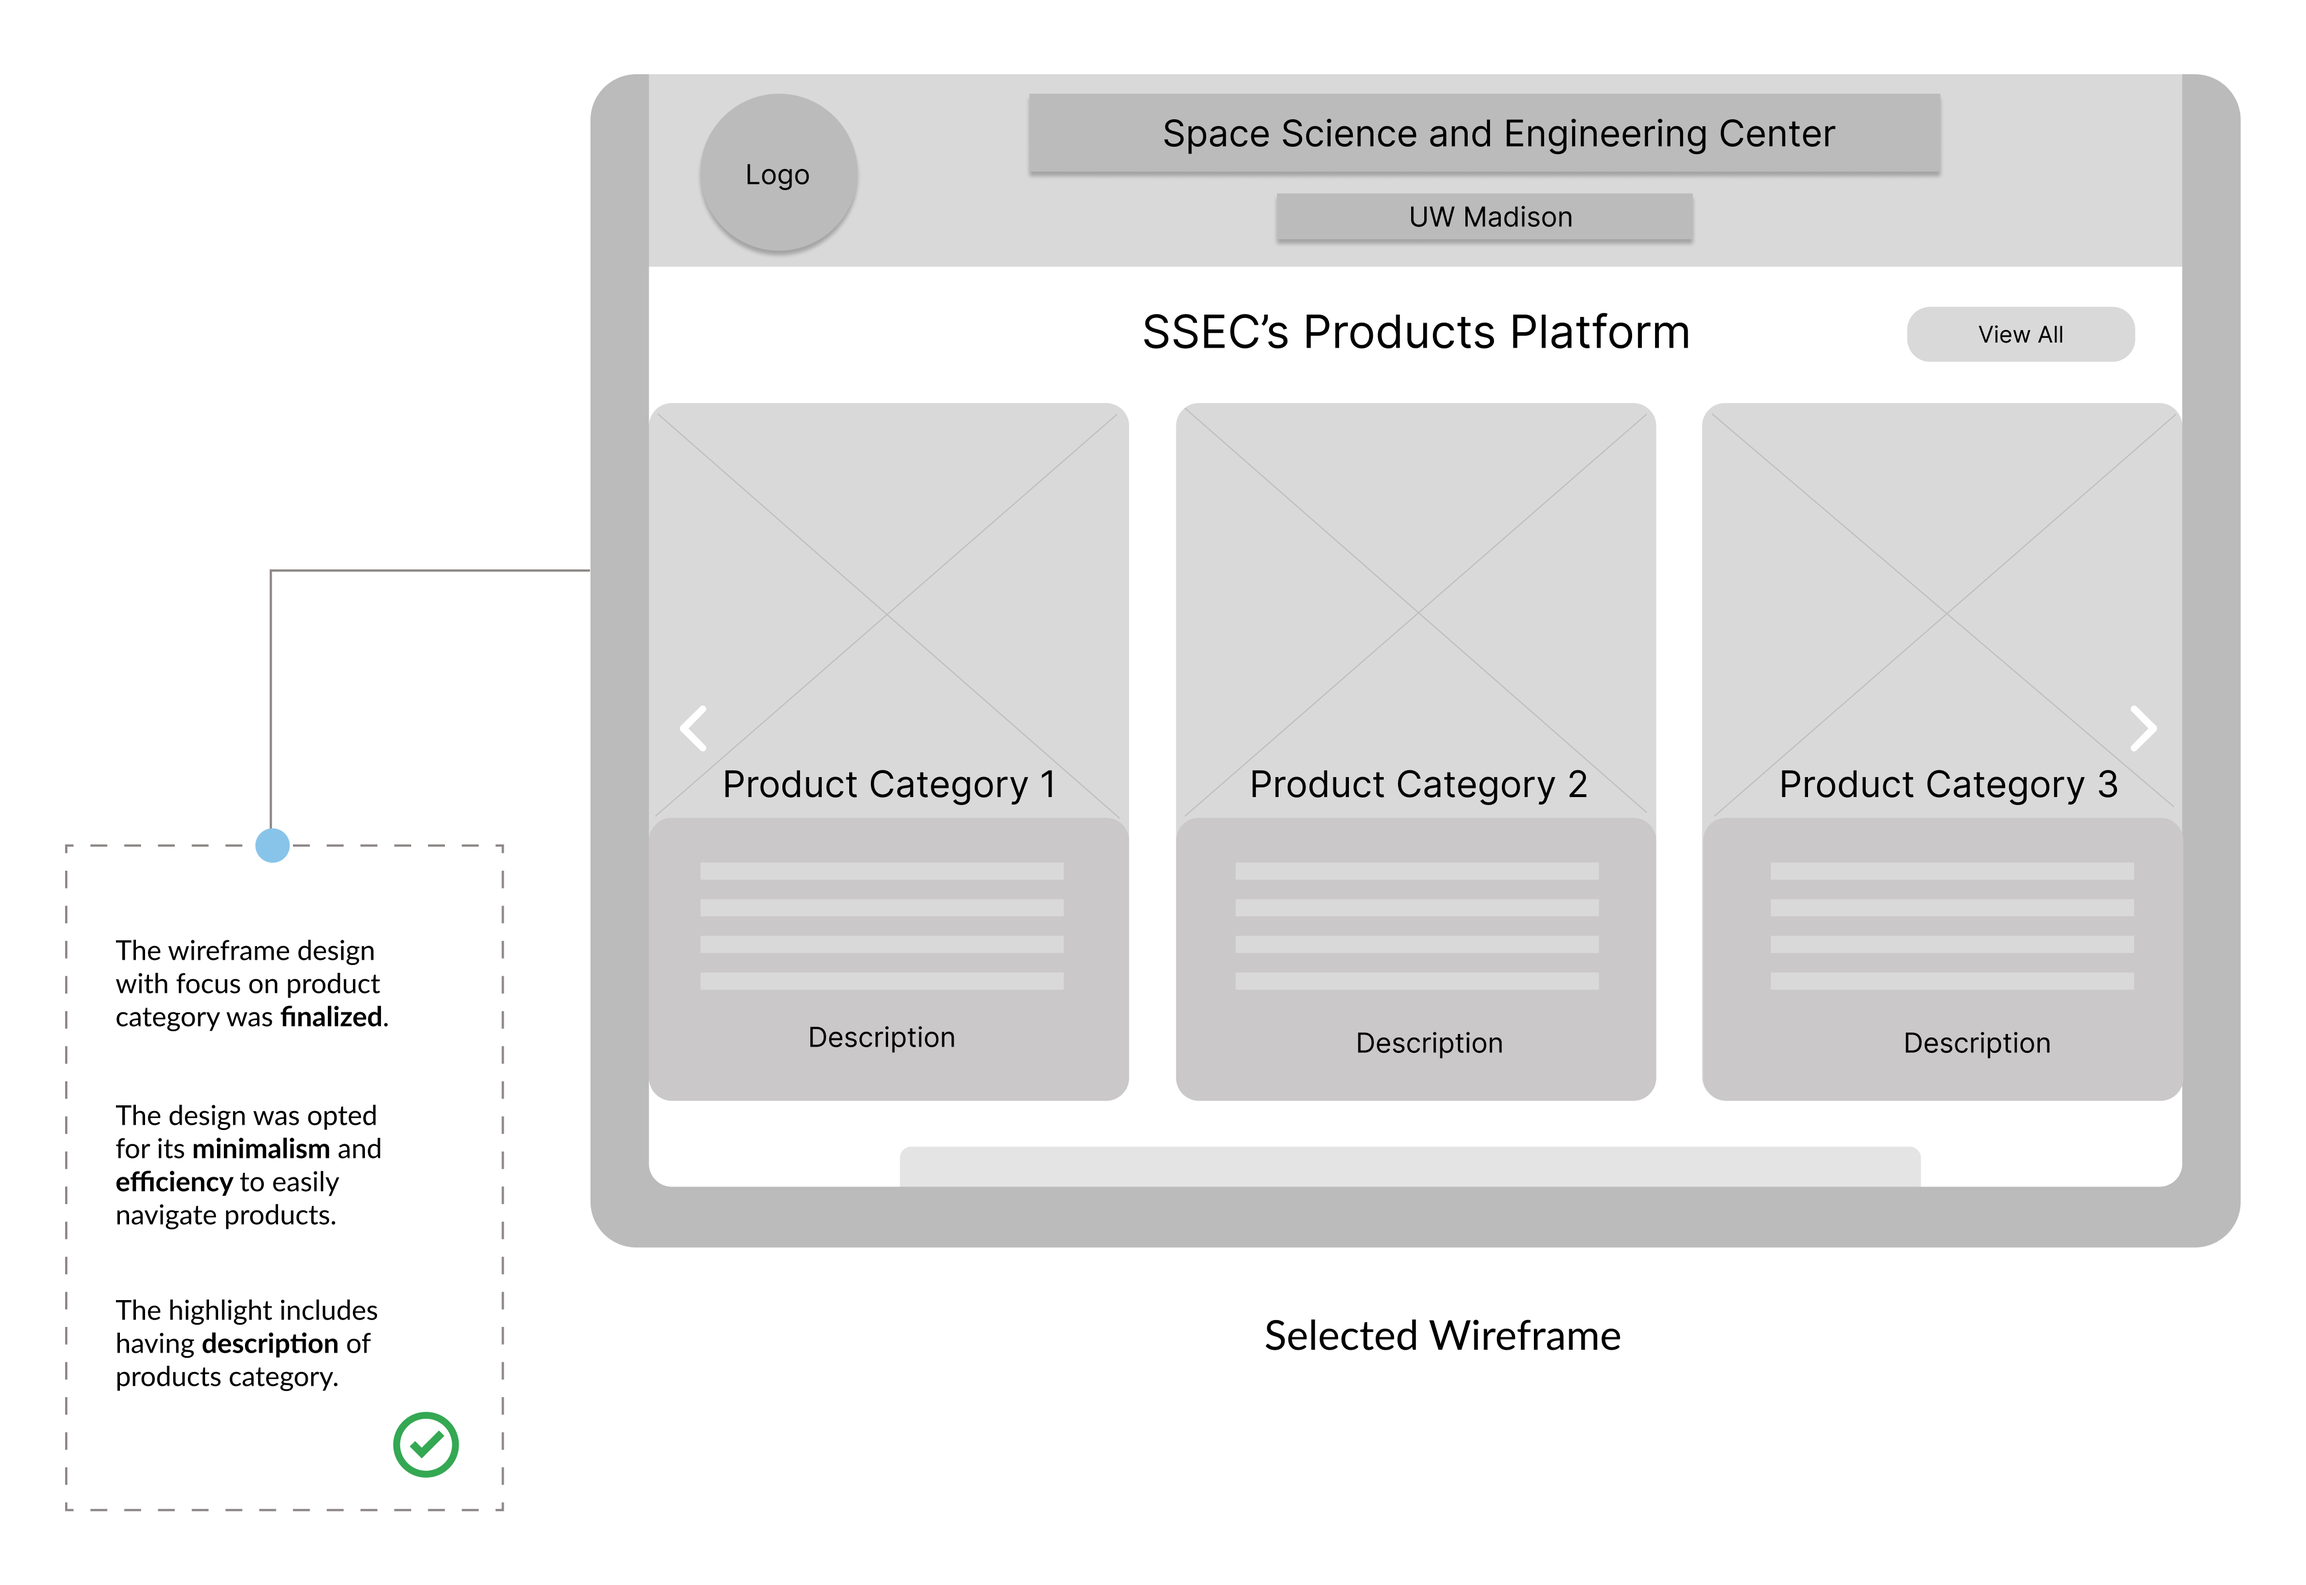
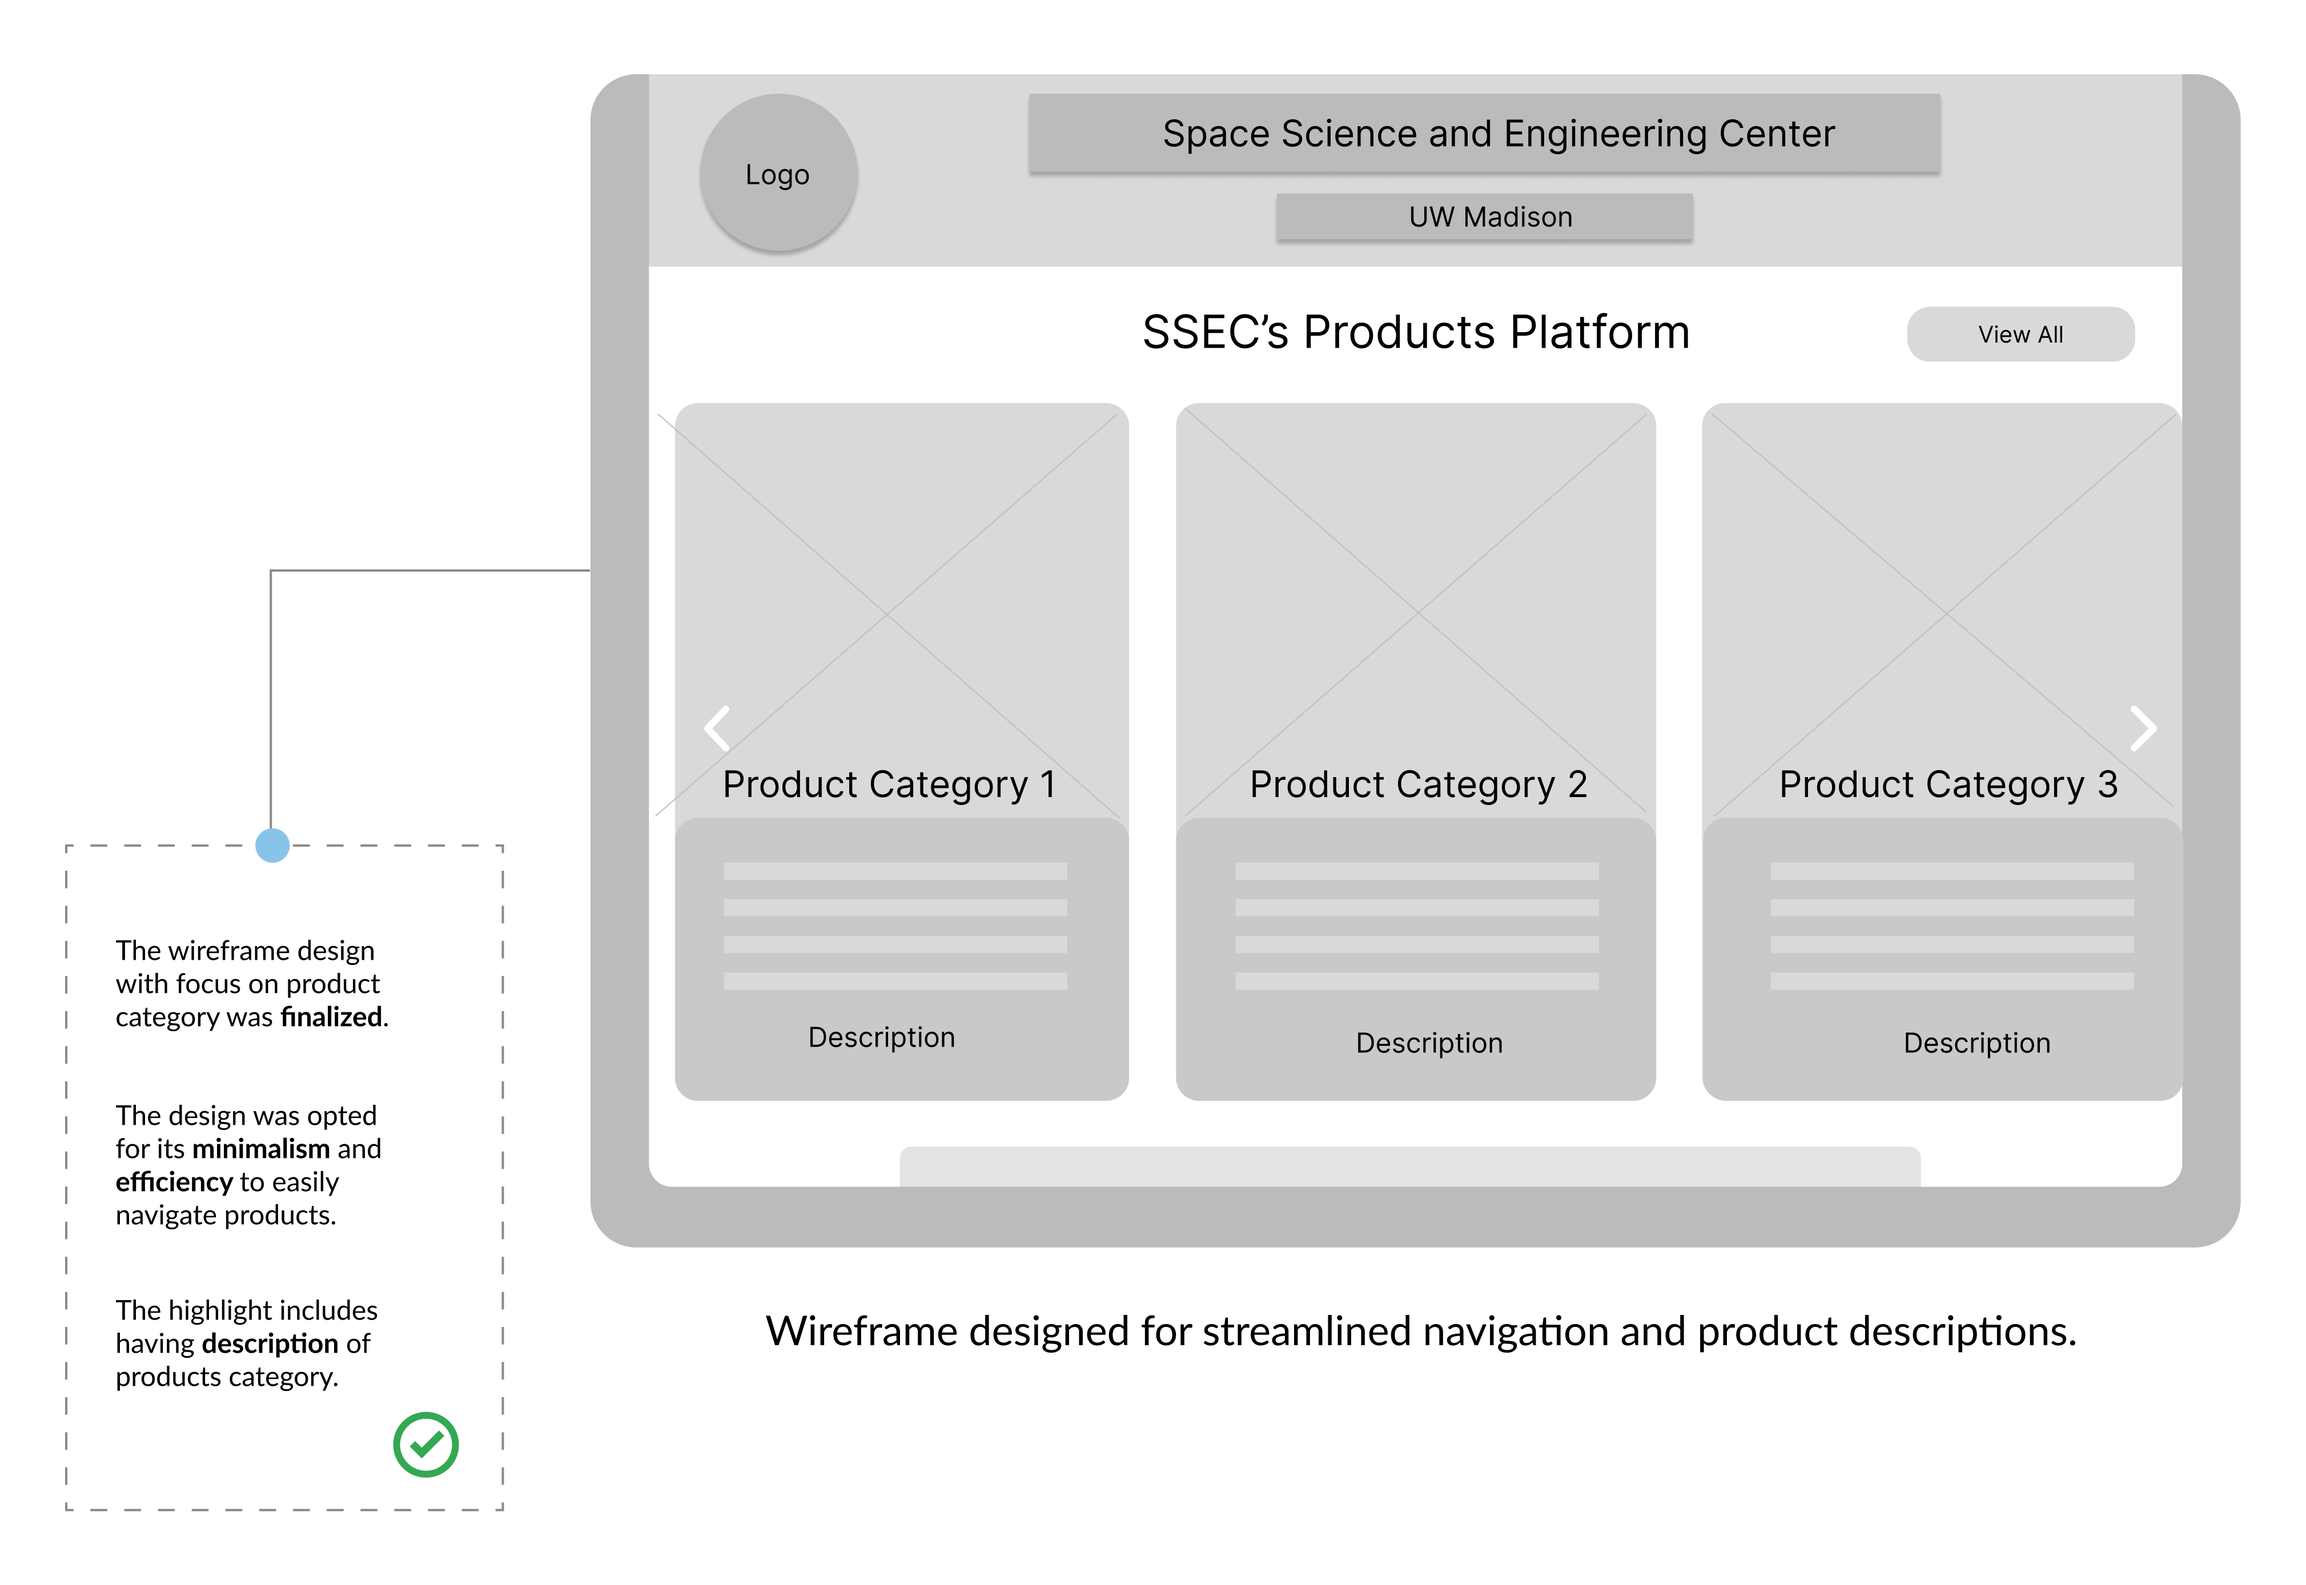
wireframe image updated + margin fix + final screens

Changed region(s): [[0.3432, 0.8365, 0.9049, 0.8674], [0.2808, 0.2478, 0.312, 0.7125]]

diff --git a/src/ssec-products/index.html b/src/ssec-products/index.html
@@ -283,10 +283,10 @@
                 </div>
                 <h3 class="u-fontWeight-semiBold u-lineHeight-1_75 u-marginV10">Final Designs</h3>
                 <p class="u-fontSize-p4 u-marginB10 u-textCenter">
-                  Design System
+                  Final Screens
                 </p>
                 <p class="u-fontSize-p4 u-marginB10 u-textCenter">
-                  Prototype
+                  Design System
                 </p>
               </div>
               <div class="col col-xs-1_3 u-displayFlex u-justify-center u-alignItems-center u-flex-col">
@@ -666,9 +666,9 @@
             <p class="u-textJustify u-lineHeight-1_5 u-fontSize-p4">
               Here are some of my screen designs regarding our research and the goals for the web platform. These screen  designs provided us with the initial thoughts about  how the platform  could potentially help in alleviating discovered pain points.
             </p>
-            <div class="row">
+            <div class="row  u-marginV50">
               <div class="col-sm-8">
-                <div class="u-displayFlex u-justify-center u-alignItems-start u-marginV10 u-height100 u-mob-marginT50">
+                <div class="u-displayFlex u-justify-center u-alignItems-start u-height100 u-mob-marginT50">
                   <a class="ssec-products-thumbnail" href="../assets/images/ssec-products/wireframes-selected.png">
                     <figure>
                       <img src="../assets/images/ssec-products/wireframes-selected.png" loading="lazy"
@@ -679,7 +679,7 @@
                 </div>
               </div>
               <div class="col-sm-4">
-                <div class="u-displayFlex u-justify-center u-marginV10 ssec-wireframe-option">
+                <div class="u-displayFlex u-justify-center ssec-wireframe-option">
                   <a class="ssec-products-thumbnail" href="../assets/images/ssec-products/wireframe-option1.png">
                     <figure>
                       <img src="../assets/images/ssec-products/wireframe-option1.png" loading="lazy"
@@ -687,7 +687,7 @@
                     </figure>
                   </a>
                 </div>
-                <div class="u-displayFlex u-justify-center u-marginV10">
+                <div class="u-displayFlex u-justify-center u-marginT30">
                   <a class="ssec-products-thumbnail" href="../assets/images/ssec-products/wireframe-option2.png">
                     <figure>
                       <img src="../assets/images/ssec-products/wireframe-option2.png" loading="lazy"

diff --git a/src/stylesheets/main.scss b/src/stylesheets/main.scss
@@ -3621,7 +3621,7 @@ $star-background: #f1c40f;
 }
 
 .ssec-selected-wireframe-img {
-  padding: 17.5px 10px;
+  padding: 27.5px 10px;
 }
 
 .ssec-wireframe-option {
